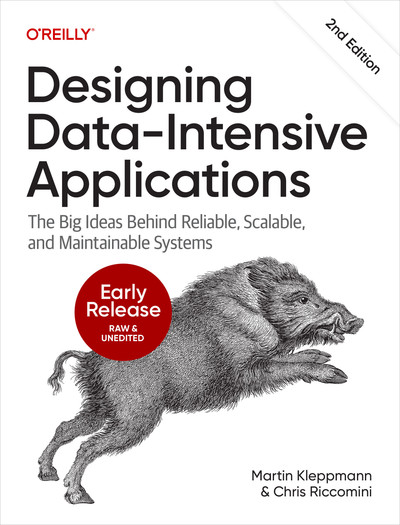
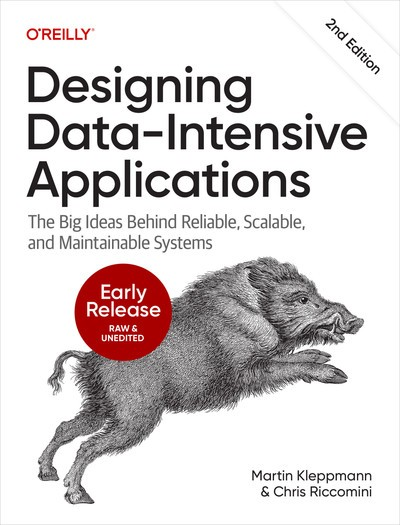
fix(epub): 修复封面不显示、目录错乱与导航链接损坏
导出 EPUB 时发现三个缺陷，均在构建脚本中修复（正文内容未改动）：

- 封面不显示：static/title.jpg 缺少 JFIF 头，Pandoc 无法探测尺寸，
  生成 viewBox="0 0 0 0" 的 0×0 封面。重编码补全标准 JFIF 头。
- 书名/目录错乱：各章标题只存在于 frontmatter，正文无 `#` 一级标题，
  导致多文件 YAML frontmatter 相互覆盖（书名被末尾的“术语表”覆盖），
  且 Pandoc 无法按章切分。preprocess-epub.py 现在剥离 frontmatter、
  将 title 提升为正文一级标题，并转换 callout shortcode。
- 导航链接损坏：--file-scope=true 生成 `text/#锚点`（缺文件名）的坏链接
  且无法拆章。移除该参数后章节正确拆为 23 个独立 xhtml，导航全部有效。

验证：书名正确、23 个章节文件、119 个导航点 0 坏链接、封面 400×525、
脚注按章隔离无串章。

Changed region(s): [[0.21, 0.5486, 0.39, 0.701], [0.06, 0.0305, 0.24, 0.0914], [0.39, 0.64, 0.42, 0.6705]]

diff --git a/bin/preprocess-epub.py b/bin/preprocess-epub.py
@@ -2,9 +2,13 @@
 """
 预处理 Markdown 文件，将 Hugo shortcode 转换为 Pandoc 可识别的格式
 
-处理两种 shortcode：
-1. {{< figure src="/fig/xxx.png" caption="xxx" >}} → ![xxx](static/fig/xxx.png)
-2. {{< figure ... >}} (无 src) → 移除（通常用于代码示例）
+处理内容：
+1. YAML frontmatter → 提取 title 作为正文 `# 一级标题`，并移除 frontmatter
+   （每个文件有唯一的 `#` 标题，Pandoc 才能按章切分并生成目录；同时避免
+    多文件 frontmatter 的 title 相互覆盖导致书名/目录错乱）
+2. {{< figure src="/fig/xxx.png" caption="xxx" >}} → ![xxx](static/fig/xxx.png)
+3. {{< figure ... >}} (无 src) → 移除（通常用于代码示例）
+4. {{< callout ... >}}...{{< /callout >}} → 转为 blockquote，去掉 shortcode 包裹
 """
 
 import os
@@ -12,9 +16,42 @@ import re
 import sys
 from pathlib import Path
 
+FRONTMATTER_RE = re.compile(r"\A---\r?\n(.*?)\r?\n---\r?\n?", re.DOTALL)
+TITLE_RE = re.compile(r'^title:\s*(.*)$', re.MULTILINE)
 FIGURE_SHORTCODE_RE = re.compile(r"\{\{<\s*figure\b(.*?)>\}\}", re.DOTALL)
+CALLOUT_OPEN_RE = re.compile(r"\{\{<\s*callout\b[^>]*>\}\}")
+CALLOUT_CLOSE_RE = re.compile(r"\{\{<\s*/\s*callout\s*>\}\}")
 ATTR_RE = re.compile(r'([\w-]+)="([^"]*)"')
 ABS_IMAGE_RE = re.compile(r'!\[([^\]]*)\]\(/(?!static/)([^)]+)\)')
+
+
+def _strip_title_quotes(value):
+    """去掉 YAML title 值两侧的引号。"""
+    value = value.strip()
+    if len(value) >= 2 and value[0] in "\"'" and value[-1] == value[0]:
+        value = value[1:-1]
+    return value
+
+
+def extract_title_and_strip_frontmatter(text):
+    """移除开头的 YAML frontmatter，返回 (title, 剩余正文)。"""
+    match = FRONTMATTER_RE.match(text)
+    if not match:
+        return None, text
+
+    frontmatter = match.group(1)
+    body = text[match.end():]
+
+    title_match = TITLE_RE.search(frontmatter)
+    title = _strip_title_quotes(title_match.group(1)) if title_match else None
+    return title, body
+
+
+def convert_callouts(text):
+    """把 Hugo callout shortcode 转为普通 blockquote。"""
+    text = CALLOUT_OPEN_RE.sub("", text)
+    text = CALLOUT_CLOSE_RE.sub("", text)
+    return text
 
 
 def _escape_alt_text(text):
@@ -24,7 +61,8 @@ def _escape_alt_text(text):
 
 def convert_markdown(text):
     """
-    转换 Hugo figure shortcode 和绝对路径图片引用。
+    移除 frontmatter 并把 title 提升为 `#` 一级标题，转换 Hugo shortcode
+    与绝对路径图片引用。
 
     Args:
         text: Markdown 文本内容
@@ -32,6 +70,10 @@ def convert_markdown(text):
     Returns:
         转换后的文本
     """
+    title, text = extract_title_and_strip_frontmatter(text)
+
+    text = convert_callouts(text)
+
     def replace_figure_shortcode(match):
         attrs_text = match.group(1)
         attrs = dict(ATTR_RE.findall(attrs_text))
@@ -53,6 +95,10 @@ def convert_markdown(text):
 
     # 把 Markdown 里的绝对路径图片 ![](/map/ch01.png) 转为 static/map/ch01.png
     text = ABS_IMAGE_RE.sub(r'![\1](static/\2)', text)
+
+    # 用 frontmatter 的 title 作为章节一级标题，供 Pandoc 切分章节与生成目录
+    if title:
+        text = f'# {title}\n\n{text.lstrip()}'
 
     return text
 
